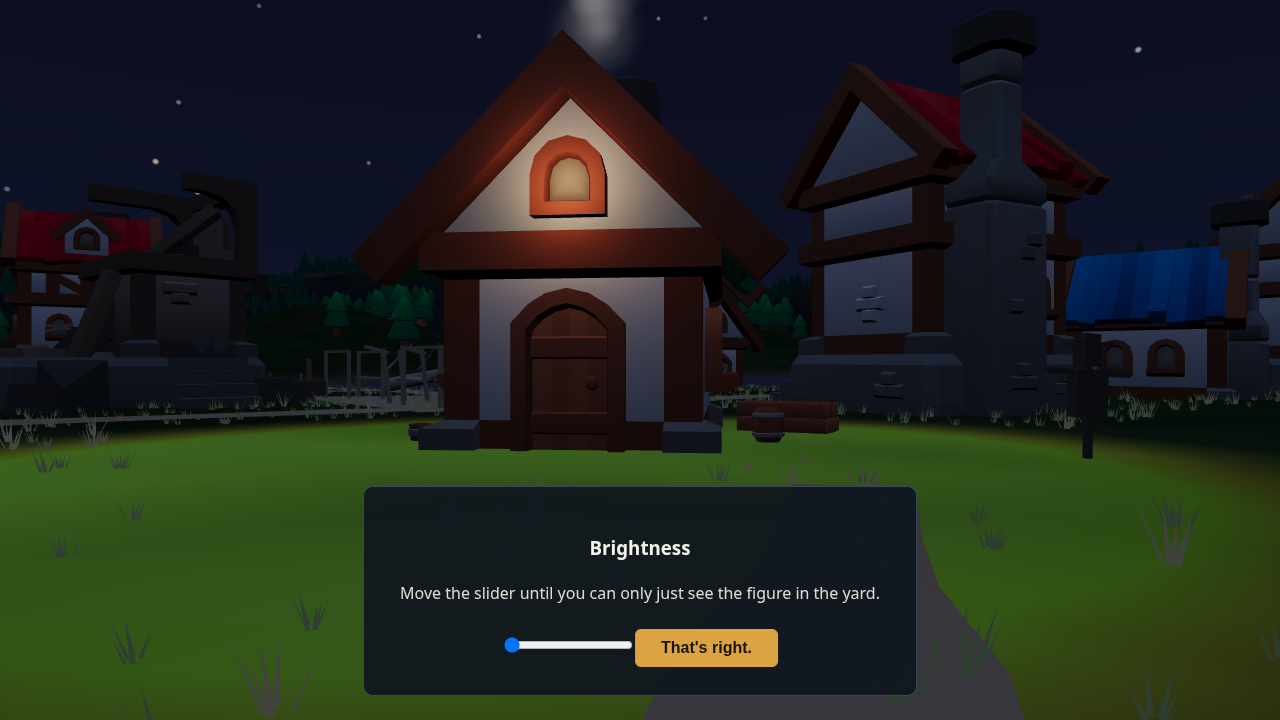
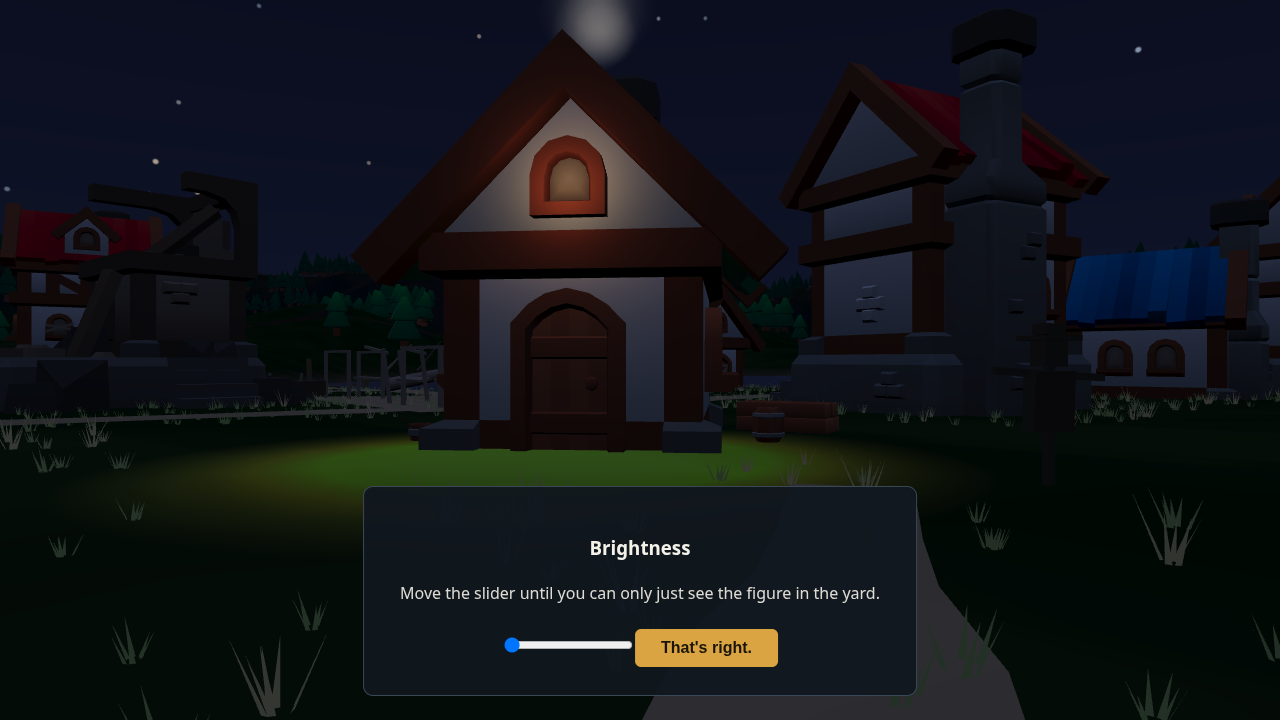
Brightness prompt: review 031 capture re-run on merged main; status and queue blocker (scarecrow outside frame)

diff --git a/docs/status.md b/docs/status.md
@@ -6,10 +6,20 @@ Viktor updates this file. Newest entry at the top. See `docs/WORKFLOW.md` for wh
 
 Viktor updates this file. Newest entry at the top. See `docs/WORKFLOW.md` for what each entry should contain.
 
+## 2026-11-14 Task 009 step 2, queue item 1: brightness prompt (Viktor, branch `task-009-brightness-prompt`), NOT MERGED
+
+- Built: first-start brightness check (saves `brightness` and `brightnessSet`); `hesper_door` midnight picture with the hero hidden and the clock frozen; card along the bottom with the exact review 031 copy; "Set brightness again" on Display; close restores clock, hero and camera. Commit `b29b36a`, merged with `origin/main` `defcfd9` as `30f40a5`.
+- Curve (review 032, `src/core/settings/settings.ts`): exposure = 0.35 + 0.65 × b^1.5. From `picture-report.json`: 0.5 gives 0.58, 1 gives 1.00, 1.5 gives 1.54. [capture, 2026-11-14]
+- Gates on the merged tree: typecheck clean; `vitest` 70 files, 847 tests pass; build passes (chunk-size warning only); `scripts/brightness_picture_capture.mjs` failures `[]` (both phases; clock and hero restored exactly on close). Smoke test not yet run, since the PR is not merged.
+- Pass mark (review 032): **not met.** The scarecrow is in none of the three frames (`docs/pr-media/review031/picture-0.5.png`, `picture-1.png`, `picture-1.5.png`). It is built at (85.8, 107.3) (`src/village/build.ts`, `SCARECROW` in `plan.ts`). The `hesper_door` view has the hero at (93.3, 107.2) looking at (86, 98), so the figure is about 52° left of the view axis, outside the frame. Review 032 says it sits near the middle of the frame; these coordinates do not give that.
+- Not changed, per the rule against moving the figure or the view to pass a frame. Decision needed: move the `hesper_door` look point (`src/core/world/tour.ts`) or the figure (`src/village/`, Claude's path).
+- Card: along the bottom; does not cover the house or Hesper's lit window. Exposure steps are visible (dim, lit, brightest) and the ground lit around the house changes with them.
+- Queue item 1 stays unticked. The PR stays open until the figure reads at 1.
+
 ## 2026-11-13 Task 009 step 2c: brightness, quality, Controls scroll hint (Viktor, branch `task-009-brightness`)
 
 - Greg's 17:00 ruling applied: noon shadow closed, no lighting change. Scroll hint added: a 36 px fade at the bottom of the Controls list while more rows remain (`moreBelow` in `controls_rules.ts`, 3 tests).
-- Brightness (`applyBrightness` in `src/render/valley.ts`): exposure = 0.55 + 0.45 × brightness; the scene's ambient lift = max(0, (brightness − 1) × 0.16). Live probe: 0.5 gives exposure 0.775, ambient 0; 1.0 gives 1.0, ambient 0; 1.5 gives 1.225, ambient 0.08.
+- Brightness: superseded by the 2026-11-14 entry above (review 032 curve).
 - Ground share, midnight `hesper_door` (tod 0), fresh preview server, `scripts/ground_vs_sky.py`: 2.60 at 0.5, 3.05 at 1.0, 3.42 at 1.5. All above the 0.25 floor. Frames: `docs/pr-media/review2c/v2-b0.5|v2-b1|v2-b1.5/hesper_door-0.png`. By eye, 1.5 is lifted and the sky stays dark.
 - Earlier frames (`docs/pr-media/review2c/b0.5|b1|b1.5/`) came out identical (ground share about 3.0 each). Cause not confirmed. Likely a stale preview server still serving an older bundle. Those frames are not used.
 - Quality (`src/render/quality.ts`, my proposal, Greg to decide): low = 1024 shadow map, 220 m fine-land stream; medium = 2048, 340 m (today's values); high = 2048, 420 m. Scenery density is not changed by quality: per-band splits were rejected (about 130 extra draw calls). Arrival view, 18:00, medium, `scripts/quality_budget.mjs` (chunks stable before reading):

diff --git a/docs/tasks/day-2026-11-14.md b/docs/tasks/day-2026-11-14.md
@@ -79,7 +79,7 @@ depend on each other.
 
 ## Blocked
 
-(none yet)
+- Item 1 (brightness prompt): the scarecrow is outside the `hesper_door` frame at 0.5, 1 and 1.5. PR open on `task-009-brightness-prompt`, not merged. Needs a decision on the view or the figure (status, 2026-11-14).
 
 ## Decisions taken
 
